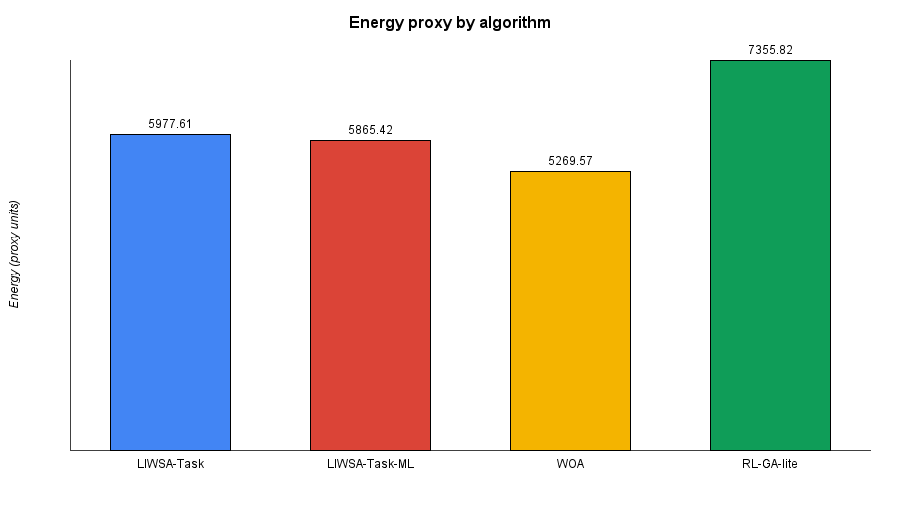
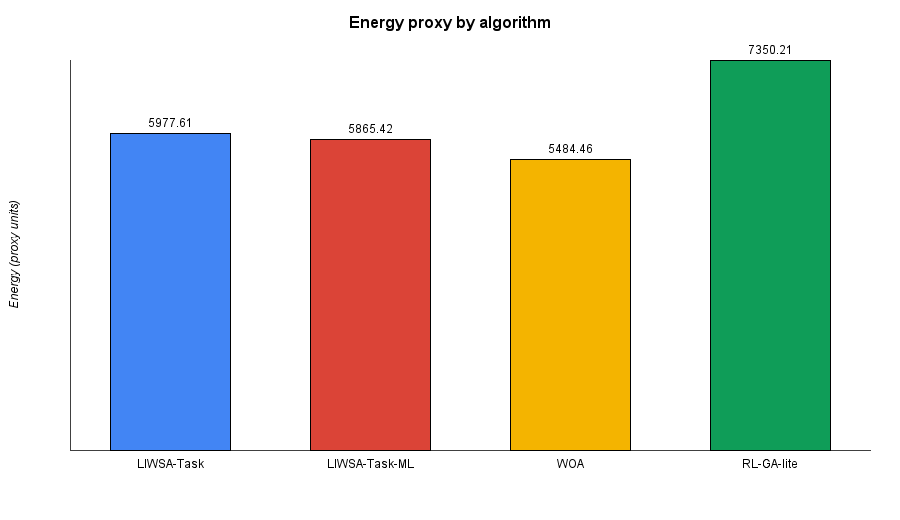
speed up the algorithm a little bit

Changed region(s): [[0.56, 0.2769, 0.7156, 0.3385], [0.1244, 0.2154, 0.2489, 0.2769], [0.3422, 0.2154, 0.4667, 0.2769]]

diff --git a/modules/liwsa-multicloud/src/main/java/org/liwsa/multicloud/algorithm/liwsa/LiwsaTaskPlanningAlgorithm.java b/modules/liwsa-multicloud/src/main/java/org/liwsa/multicloud/algorithm/liwsa/LiwsaTaskPlanningAlgorithm.java
@@ -116,6 +116,18 @@ public class LiwsaTaskPlanningAlgorithm implements SchedulingAlgorithm {
     protected int progressIntervalGenerations = 5;
     public void setVerboseProgress(boolean v) { this.verboseProgress = v; }
 
+    /**
+     * Cached once per {@link #run()} (see where {@link #taskOrder} is set)
+     * rather than rechecked per task: whether any task in this workload
+     * declares a dependency at all. {@link #decode} uses this to skip
+     * building its {@code finish}-time lookup map entirely when nothing
+     * would ever read from it -- see {@link #decode} for why that map is
+     * otherwise a meaningful amount of wasted allocation on dependency-free
+     * workloads (which is every synthetic workload in this framework;
+     * dependencies only come from {@code TaskWorkloadReader}-loaded files).
+     */
+    private boolean hasAnyDependencies;
+
     @Override
     public String getName() {
         return "LIWSA-Task";
@@ -129,6 +141,7 @@ public class LiwsaTaskPlanningAlgorithm implements SchedulingAlgorithm {
 
         random = (randomSeed != null) ? new Random(randomSeed) : new Random();
         taskOrder = computeTaskOrder(tasksInput);
+        hasAnyDependencies = taskOrder.stream().anyMatch(t -> !t.isIndependent());
 
         initializePopulation();
         double tau = calibrateTau();
@@ -347,18 +360,26 @@ public class LiwsaTaskPlanningAlgorithm implements SchedulingAlgorithm {
 
     protected double[] decode(int[] genotype) {
         Map<Integer, List<Event>> schedules = new HashMap<>();
-        Map<Integer, Double> finish = new HashMap<>();
+        // Only ever actually populated when hasAnyDependencies is true --
+        // building and filling this with one entry per task (up to
+        // numTasks entries) is real, measurable allocation/GC overhead that
+        // has zero payoff on a dependency-free workload, since nothing
+        // would ever read from it. See the field's own Javadoc.
+        Map<Integer, Double> finish = hasAnyDependencies ? new HashMap<>() : null;
         double cost = 0.0;
+        double makespan = 0.0;
 
         for (int k = 0; k < taskOrder.size(); k++) {
             CloudTask task = taskOrder.get(k);
             ResourceCandidate resource = resources.get(genotype[k]);
 
             double ready = task.getArrivalTime();
-            for (Integer depId : task.getDependencies()) {
-                Double pf = finish.get(depId);
-                if (pf != null) {
-                    ready = Math.max(ready, pf);
+            if (hasAnyDependencies) {
+                for (Integer depId : task.getDependencies()) {
+                    Double pf = finish.get(depId);
+                    if (pf != null) {
+                        ready = Math.max(ready, pf);
+                    }
                 }
             }
 
@@ -366,14 +387,13 @@ public class LiwsaTaskPlanningAlgorithm implements SchedulingAlgorithm {
             List<Event> sched = schedules.computeIfAbsent(genotype[k], key -> new ArrayList<>());
             double fin = findFinishTime(sched, ready, duration, true);
 
-            finish.put(task.getCloudletId(), fin);
+            if (hasAnyDependencies) {
+                finish.put(task.getCloudletId(), fin);
+            }
+            makespan = Math.max(makespan, fin);
             cost += duration * resource.getCostPerSecond();
         }
 
-        double makespan = 0.0;
-        for (double f : finish.values()) {
-            makespan = Math.max(makespan, f);
-        }
         return new double[]{makespan, cost};
     }
 

diff --git a/modules/liwsa-multicloud/src/main/java/org/liwsa/multicloud/config/SimulationConfig.java b/modules/liwsa-multicloud/src/main/java/org/liwsa/multicloud/config/SimulationConfig.java
@@ -29,7 +29,7 @@ public final class SimulationConfig {
     private int generationCount = 100;
     private int numExperimentRuns = 30;
     private int[] taskCountSweep = {100, 1_000, 10_000, 100_000};
-    private long perAlgorithmTimeoutSeconds = 6000;
+    private long perAlgorithmTimeoutSeconds = 600;
 
     private int instancesPerVmType = 4;
     private double brokerMonitoringPeriod = -1; // -1 disables periodic utilisation monitoring

diff --git a/CHANGES.md b/CHANGES.md
@@ -1,5 +1,36 @@
 # What changed in this batch
 
+## Latest round: a real, safe fix found by investigating the CPU question
+
+**`LiwsaTaskPlanningAlgorithm.java` changed again** (first time since the
+original `solitaryMove` fix — everything in between left it untouched, as
+repeatedly confirmed by diff). Its `decode()` unconditionally built and
+filled a `Map<Integer, Double> finish` with **one entry per task** — for a
+100,000-task genotype, that's 100,000 `HashMap.put()` calls, each boxing an
+Integer key and a Double value, on *every single decode() call* (≈3,000
+times over a full run — up to ~300 million wasted puts total). This map
+exists to support task **dependencies**, but every synthetic workload in
+this framework (all of `Demo`/`FullDemo`/`ExperimentDemo`/`ScalabilityDemo`)
+has none — dependencies only come from files loaded via
+`TaskWorkloadReader`. So all that allocation had zero payoff: nothing was
+ever read back out of it.
+
+**Fix:** check once per run (`hasAnyDependencies`, set alongside
+`taskOrder`) whether *any* task has a dependency at all. If not, skip
+building/populating the map entirely, and track makespan with a simple
+running max instead of re-deriving it from the map's values afterward
+(mathematically identical result — same set of numbers, maxed incrementally
+instead of after the fact; the old max-after-the-fact approach would also
+have thrown a `NullPointerException` once the map could be null, which is
+why the running-max change was necessary alongside the skip, not optional).
+For workloads that *do* have dependencies, behavior is completely
+unchanged. Doesn't touch `findFinishTime`'s scan logic at all — this is a
+pure allocation-reduction fix, isolated to `LiwsaTaskPlanningAlgorithm`
+(`LiwsaTaskMLPlanningAlgorithm` inherits it; `WOA`/`RL-GA-lite` never had
+this pattern in the first place — checked).
+
+---
+
 ## Latest round: workload realism + a safety net (read this first)
 
 **The problem:** after the WOA fix, the sweep ran fast but the results